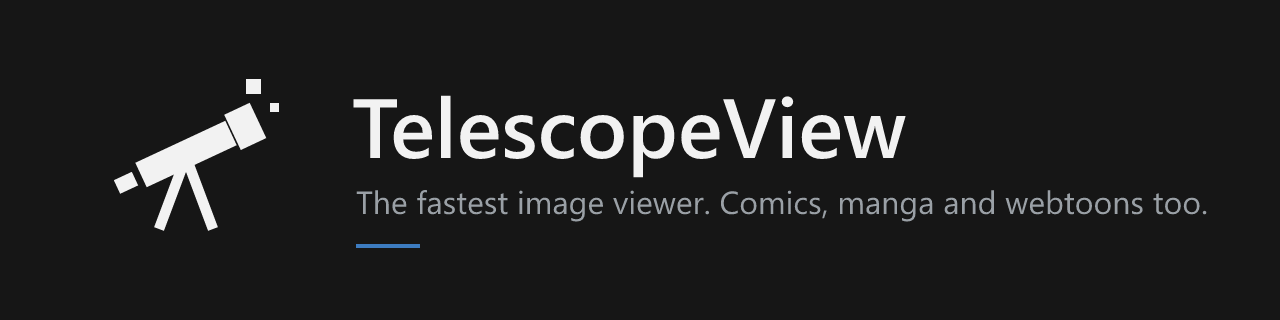
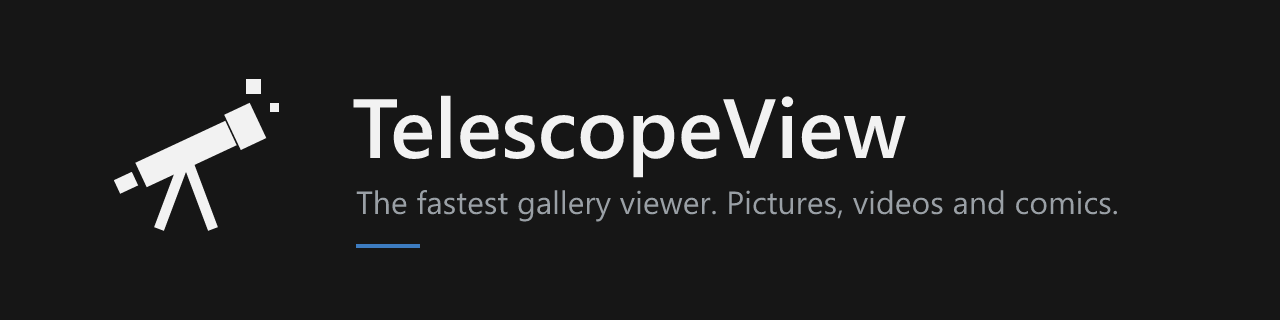
gallery viewer wording, updated guide

Changed region(s): [[0.4062, 0.5938, 0.9375, 0.6875]]

diff --git a/docs/GUIDE.md b/docs/GUIDE.md
@@ -8,12 +8,14 @@ the shortcut list, and change any key in Settings, Shortcuts.
 - **Images:** PNG, APNG, JPEG, WebP, GIF (animated too), BMP, TIFF, ICO, TGA, QOI, PNM, HDR,
   EXR, DDS, Farbfeld, JPEG XL, SVG, PSD.
   On Windows also anything with an installed Windows codec: HEIC / HEIF, AVIF, JPEG XR and
-  camera RAW (DNG, CR2, CR3, NEF, ARW, ...).
+  camera RAW (DNG, CR2, CR3, NEF, ARW, ...). HEIC / HEIF and AVIF also open through ffmpeg
+  when Windows has no codec for them (or on Linux).
 - **Comics and books:** CBZ / ZIP, CBR / RAR, CB7 / 7Z, CBT / TAR, EPUB (picture books and comics,
   in the book's own page order), PDF (Windows).
-- **Videos:** anything ffmpeg plays (MP4, MKV, WebM, MOV, AVI, WMV, ...), with sound. Needs
-  ffmpeg on the PATH (Windows: `winget install ffmpeg`). Videos sit in the folder between the
-  pictures and get a poster frame as their thumbnail.
+- **Videos:** anything ffmpeg plays (MP4, MKV, WebM, MOV, AVI, WMV, HEVC / H.265 including bare
+  `.hevc` / `.h265` streams, ...), with sound. Needs ffmpeg on the PATH (Windows:
+  `winget install ffmpeg`). Videos sit in the folder between the pictures and get their first
+  frame as the thumbnail.
 
 ## Viewing
 
@@ -22,8 +24,9 @@ page number, bookmark, fullscreen, settings and the ... menu. The view menu (its
 layout in use) has fit, webtoon strip, two pages, right to left, split wide pages, enlarge,
 zoom lock, thumbnails and the slideshow. Settings, Toolbar puts any of those back as a button.
 
-- **Next / previous:** arrows, A / D, PgUp / PgDn, mouse back / forward, the wheel, or click the
-  left / right third of the picture. The thin bar at the bottom jumps anywhere (click or drag).
+- **Next / previous:** arrows, A / D, PgUp / PgDn, mouse back / forward, or click the
+  left / right third of the picture. The wheel zooms around the cursor (Settings, Viewing can make
+  it scroll and turn pages instead; on a video it always zooms). The thin bar at the bottom jumps anywhere (click or drag).
 - **Fit and zoom:** F fits the window, W fits the width, E enlarges small images. The zoom
   slider and percentage sit in the toolbar (click the percentage for actual size and back);
   Ctrl+wheel or + / − zoom too, 1 is actual size.
@@ -34,8 +37,9 @@ zoom lock, thumbnails and the slideshow. Settings, Toolbar puts any of those bac
 - **Info panel:** size, format, file date, and for photos the camera, lens, exposure, date taken
   and GPS location from the EXIF.
 - **Animations** (GIF, APNG, WebP): K pauses, `,` and `.` step frame by frame.
-- **Videos:** play on their own. Space or K (or a click in the middle) plays / pauses, `,` and
-  `.` jump 5 seconds, and the bar along the bottom (shown while the mouse moves or it's paused)
+- **Videos:** play on their own; the ones either side are opened ahead, so moving to them starts
+  at once (loading dots while one still starts). Space or K (or a click in the middle) plays /
+  pauses, `,` and `.` jump 5 seconds, and the bar along the bottom (shown while the mouse moves or it's paused)
   has the seek bar, mute and volume.
 - **Thumbnails** (N, or the view menu): every picture in the folder in a strip that slides out
   when the mouse touches its edge. The pin in its corner keeps it on screen; drag the panel to
@@ -64,7 +68,8 @@ H shows every shortcut. Every one of them can be changed in Settings.
 - **Bookmarks:** B bookmarks the page (a tick on the page bar, the button fills in). The
   bookmark button's right-click menu, the ... menu, and the start screen list them.
 - **Bookmark files:** bookmarking a page (B, the button, or Ctrl+B for just the file) also asks
-  where to save it as a small `.tvmark` file; the dialog starts where the last one went. Double-click it, open it or drop it on the window
+  where to save it as a small `.tvmark` file; the dialog starts where the last one went.
+  Cancelling it leaves the page unbookmarked. Double-click it, open it or drop it on the window
   to carry on from that page.
 - **Split wide pages** (J): a double-page scan is read a half at a time, in reading order.
 - **Go to page:** G, or click the page counter.
@@ -74,8 +79,8 @@ H shows every shortcut. Every one of them can be changed in Settings.
 The sliders button in the toolbar (or Ctrl+,) opens Settings: the sections down the left, the
 chosen one on the right.
 
-- **Viewing:** fit, zoom step, enlarge small images, zoom lock, mouse wheel zooms instead of
-  turning, click zones, arrow keys look around a zoomed-in image first, sharp pixels.
+- **Viewing:** fit, zoom step, enlarge small images, zoom lock, mouse wheel turns pages instead
+  of zooming, click zones, arrow keys look around a zoomed-in image first, sharp pixels.
 - **Folders and order:** what happens at the last image, reopening where you left off, sort order.
 - **Comics:** two pages, right to left, split wide pages.
 - **Thumbnails:** on or off, only at the edge, where, size, preview on the bottom bar.
@@ -101,12 +106,19 @@ Toolbar buttons carry names for screen readers.
 
 ## Default app
 
-- **Windows:** ... menu → Make default image viewer opens Default apps at TelescopeView; pick it
-  for each type there (Windows doesn't let an app make itself the default). Until
-  it's the default, a small card offers this at most once a week ("Don't ask again", or switch it
-  off in Settings, Window). It registers itself for "Open with" and for `.tvmark` bookmark files
-  on first start (current user only, no admin).
-- **Linux:** `install.sh` from the .tar.gz (or the .deb) adds the menu entry and "Open with" for
+... menu → Make default (or Settings, Window) opens a small card: tick what TelescopeView should
+open (Pictures, RAW photos, Videos, Comics), or "Pick formats…" to leave single formats, say
+PNG, to another app. Unticked types stay with whatever opens them now. Until it's the default,
+the same card comes up by itself at most once a week ("Don't ask again", or switch it off in
+Settings, Window).
+
+- **Windows:** doesn't let an app make itself the default, so Make default registers the ticked
+  types and opens Settings at TelescopeView's own Default apps page, which lists only those:
+  pick it for each type there. It registers itself for "Open with" and for `.tvmark` bookmark
+  files on first start (current user only, no admin).
+- **Linux:** Make default writes `~/.local/share/applications/telescopeview.desktop` and sets it
+  as the default for the ticked types with `xdg-mime` (needs xdg-utils; GNOME and KDE both
+  follow it). `install.sh` from the .tar.gz (or the .deb) adds the menu entry and "Open with" for
   images and comics.
 - **macOS:** open files from inside the app or drop them on the window. Finder's "Open With"
   isn't wired up yet (macOS hands the file over through an Apple Event the window library

diff --git a/README.md b/README.md
@@ -11,8 +11,9 @@
 </p>
 
 <p align="center">
-  <b>The fastest image viewer.</b> The next picture is already decoded before you ask for it,<br>
-  so flipping through a folder never flickers or waits. Comics, manga and webtoons too.
+  <b>The fastest gallery viewer.</b> Pictures, videos, comics, manga, webtoons,<br>
+  and the formats other viewers won't open.<br>
+  The next picture is already decoded before you ask for it, so flipping through a folder never flickers or waits.
 </p>
 
 <p align="center">
@@ -34,6 +35,9 @@ a blurry preview or a spinner. TelescopeView works ahead of you:
   screen until the next one is fully ready, so nothing ever flashes.
 - **Instant, measured.** With 24-megapixel JPEGs on a Ryzen 7 5700X, every step was instant at
   6, 15 and 30 pictures per second. Set `IV_STATS=1` to log it on your own machine.
+- **One viewer for the whole folder.** Photos, camera RAW, HEIC, JPEG XL, EXR, DDS, PSD, SVG,
+  videos and comic archives all sit in the same gallery, so you never switch apps halfway
+  through a folder.
 - **Light on the system.** One GPU upload per frame at most, and zero CPU use while idle.
 - **Out of the way.** A flat, square, minimal interface with dark, light and high-contrast
   themes. The toolbar keeps to the everyday buttons; everything else lives one click away.
@@ -97,10 +101,15 @@ Settings are under the sliders button in the toolbar, or Ctrl+,.
 
 ## Making it your default viewer
 
-- **Windows:** in the **...** menu, choose **Make default image viewer**. It opens Windows'
-  Default apps page at TelescopeView, where you pick it for each file type. TelescopeView
-  registers itself for "Open with" on first start, for the current user only.
-- **Linux:** `install.sh` from the `.tar.gz` (or the `.deb`) adds the menu entry and "Open with".
+In the **...** menu, choose **Make default** and tick what TelescopeView should open: pictures,
+RAW photos, videos, comics, or single formats. Everything you leave unticked stays with the app
+that opens it now.
+
+- **Windows:** TelescopeView registers the ticked types and opens its own Default apps page in
+  Settings, where you pick it for each type (Windows doesn't let apps set themselves as the
+  default). It also registers for "Open with" on first start, for the current user only.
+- **Linux:** **Make default** sets it as the default for the ticked types through `xdg-mime`.
+  `install.sh` from the `.tar.gz` (or the `.deb`) adds the menu entry and "Open with".
 - **macOS:** open files from inside the app or drop them on the window. Finder's "Open With"
   is not supported yet.
 
